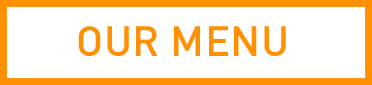
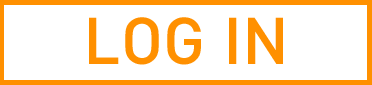
working

Changed region(s): [[0.207, 0.1882, 0.7688, 0.7765], [0.0, 0.0471, 1.0, 0.9412]]

diff --git a/users/templates/login.html b/users/templates/login.html
@@ -27,6 +27,12 @@
 
 		<input type="submit" name="submit" value="Submit" />
 
+		<div id="button">
+			<a href="/menu">
+			<img src="{% static "img/button.png"%}" class="center" width="186" height="43" alt="submit" />
+			</a>
+		</div>	
+
 	</form>
 	<a href="/users/register">
 		Register
